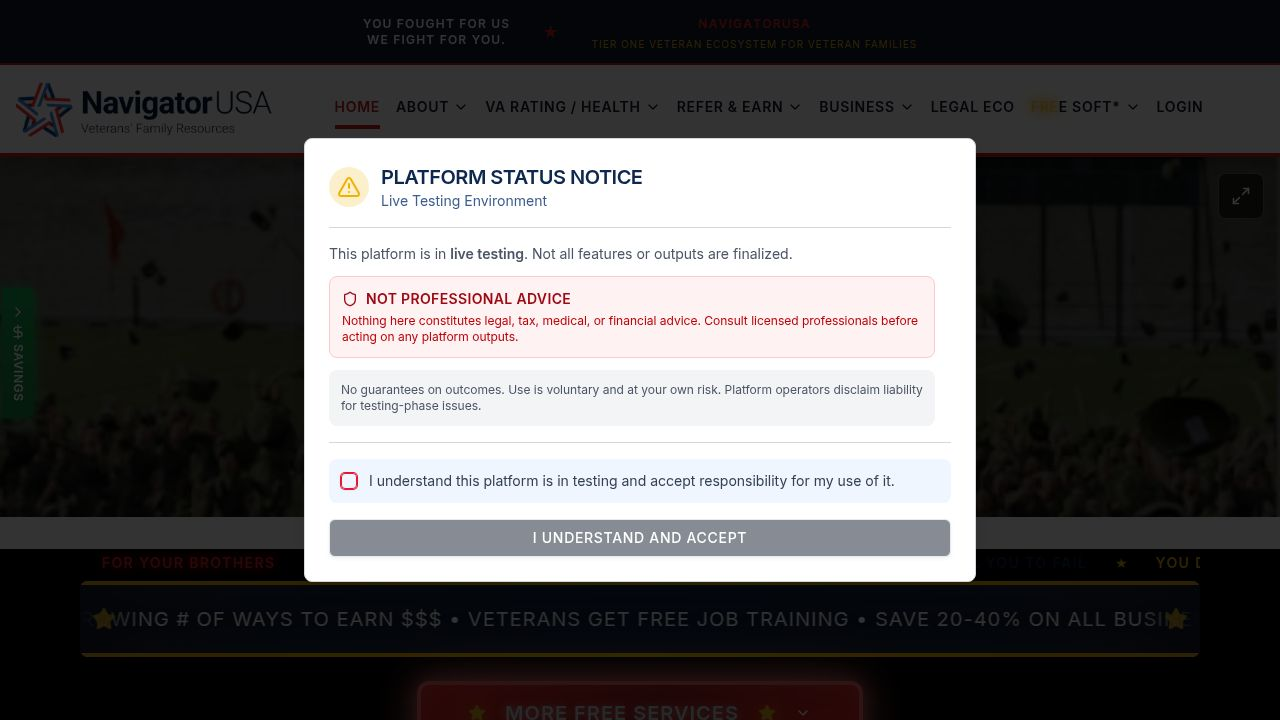
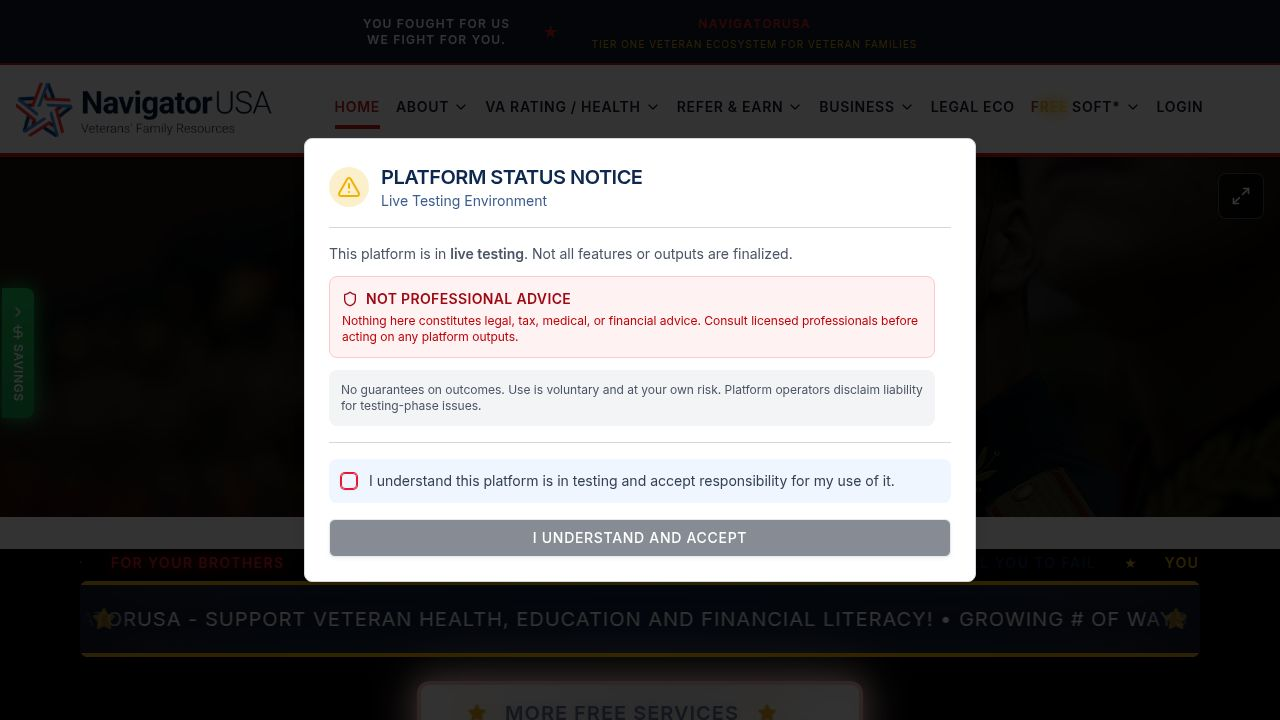
Add high-quality background images to enhance the visual experience
Add new high-quality JPG images to the client/src/assets directory and update client/src/pages/home.tsx to include them in the slideshow.

Replit-Commit-Author: Agent
Replit-Commit-Session-Id: d10b5876-8984-41e8-a034-80bdb4d7a65a
Replit-Commit-Checkpoint-Type: full_checkpoint
Replit-Commit-Event-Id: 30568aa5-47be-4d1f-a5e0-466cc586a539
Replit-Commit-Screenshot-Url: https://storage.googleapis.com/screenshot-production-us-central1/f88dd830-92ac-4d12-a8c1-ac72bcbfbb85/d10b5876-8984-41e8-a034-80bdb4d7a65a/aGtP85G
Replit-Helium-Checkpoint-Created: true

Changed region(s): [[0.125, 0.8556, 0.9062, 0.8861], [0.3125, 0.9472, 0.6875, 1.0], [0.9062, 0.7639, 0.9375, 0.7944]]

diff --git a/client/src/pages/home.tsx b/client/src/pages/home.tsx
@@ -13,10 +13,20 @@ import bgRibbons from "@/assets/bg-ribbons.png";
 import bgParatroopers from "@/assets/bg-paratroopers.png";
 import bgSoldiersSunset from "@/assets/bg-soldiers-sunset.png";
 import bgVeteranFamily from "@/assets/bg-veteran-family.png";
+import bgHonorGuard from "@/assets/bg-honor-guard.jpg";
+import bgSalute from "@/assets/bg-salute.jpg";
+import bgCarrierHQ from "@/assets/bg-carrier-hq.jpg";
+import bgSoldiersTactical from "@/assets/bg-soldiers-tactical.jpg";
+import bgHelicopter from "@/assets/bg-helicopter.jpg";
 import { HeroMontage } from "@/components/hero-montage";
 import { FlagBanner } from "@/components/flag-banner";
 
 const SLIDESHOW_IMAGES = [
+  bgHonorGuard,
+  bgSalute,
+  bgCarrierHQ,
+  bgSoldiersTactical,
+  bgHelicopter,
   militaryHandsTogether,
   bgMemorial,
   bgCarrier,
